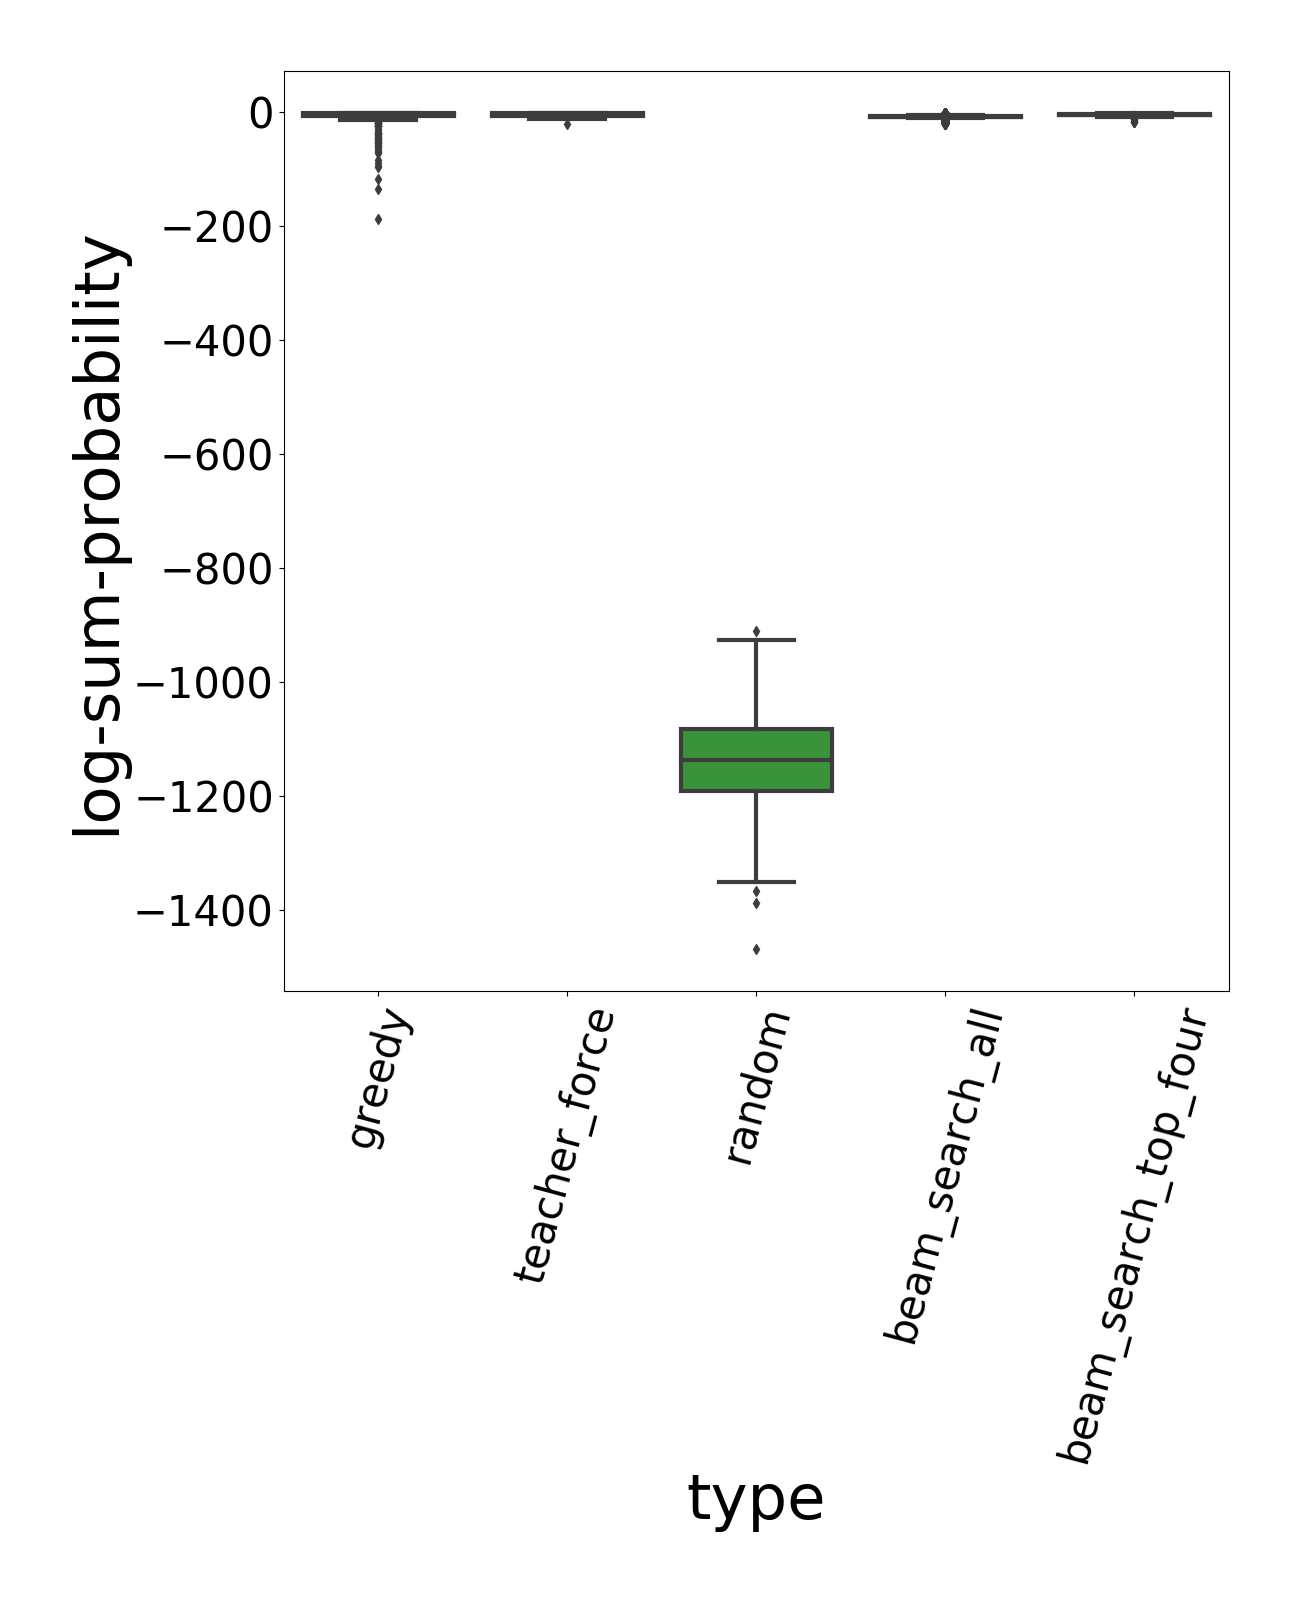
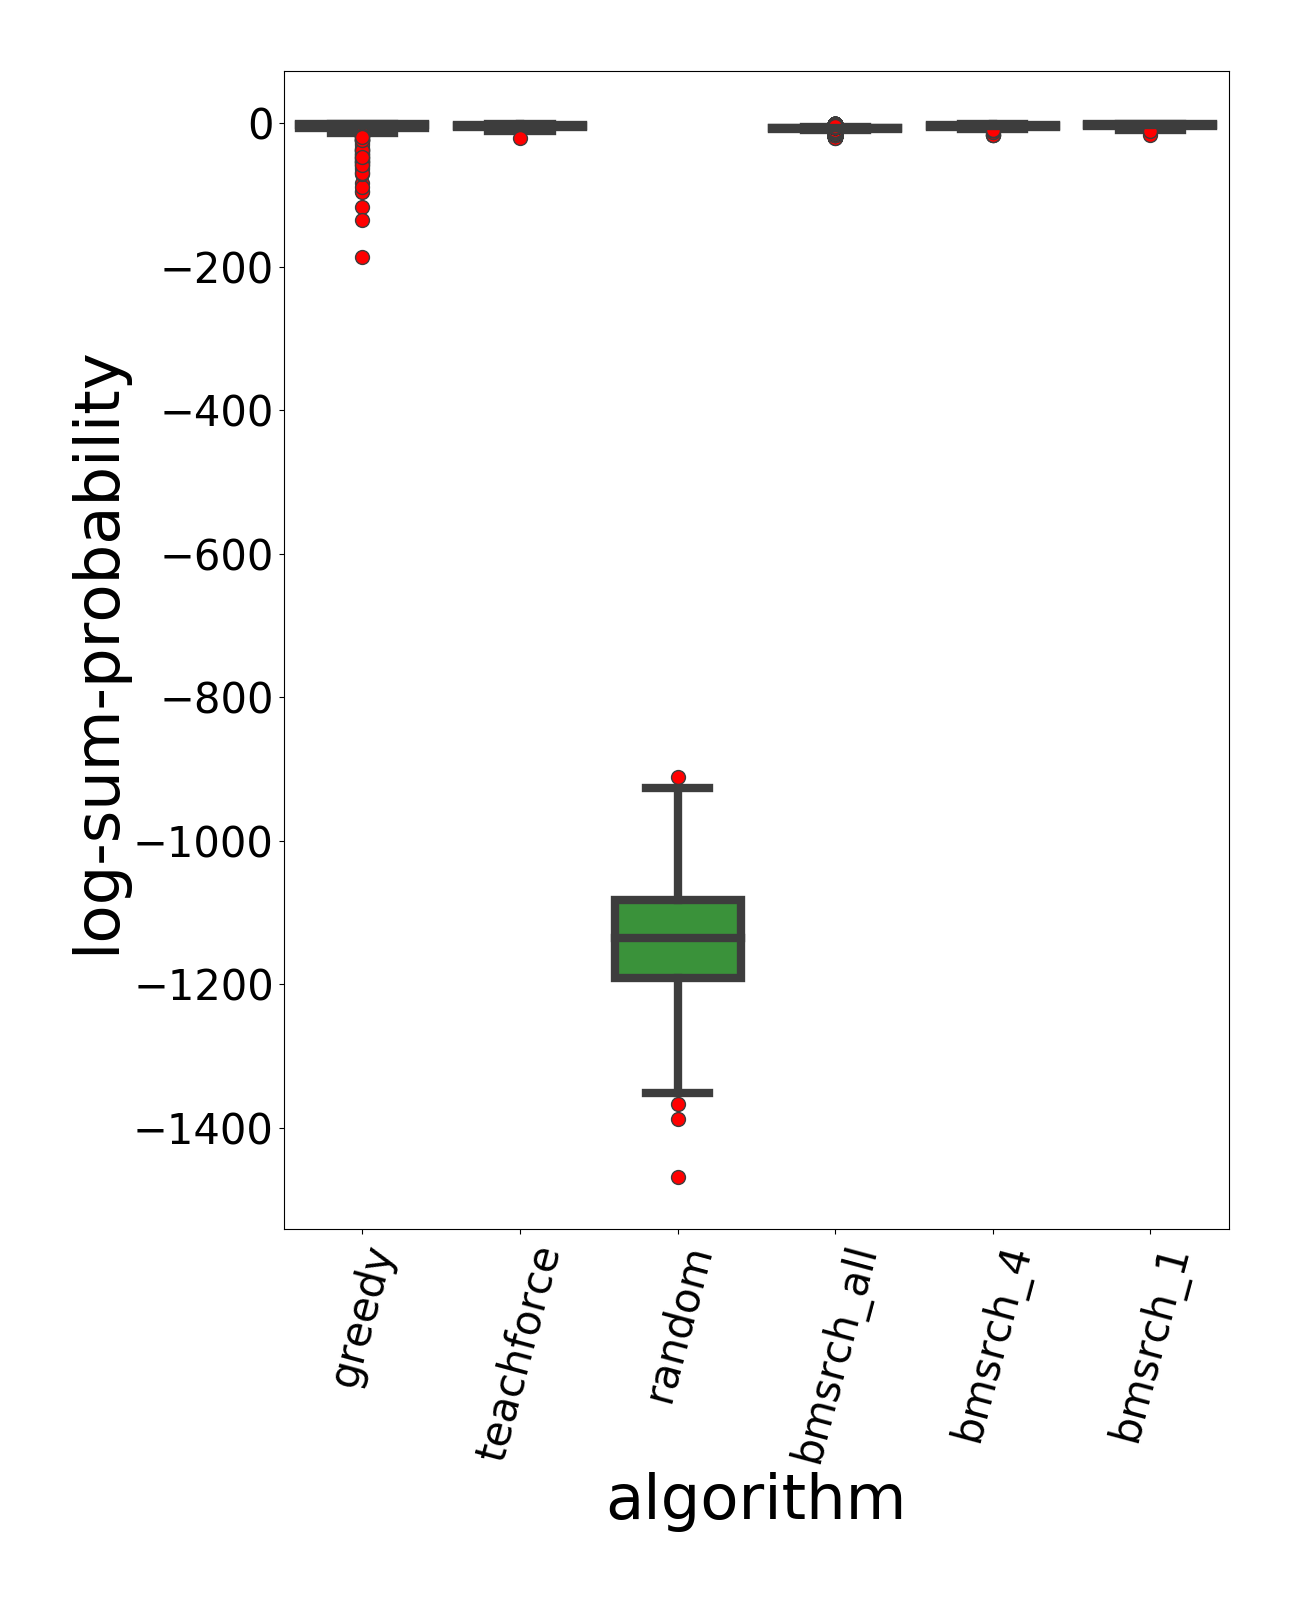
Fix box plot formatting
Thicker lines, more visible outliers, shorter label names

diff --git a/src/app/helper_scripts/15_plot_aggregate_probabilities_for_many_gaps.py b/src/app/helper_scripts/15_plot_aggregate_probabilities_for_many_gaps.py
@@ -16,7 +16,7 @@ from preprocess.KmerLabelEncoder import KmerLabelEncoder
 
 primary_text_font_size=45
 secondary_text_font_size=30
-linewidth=3
+linewidth=6
 rotation=75
 
 def save_plot(data, path):
@@ -31,7 +31,13 @@ def save_plot(data, path):
 
     plt.figure(figsize=figure_dimensions)
 
-    ax = sns.boxplot(data=data, x="type", y="log-sum-probability", linewidth=linewidth)
+    flierprops = {
+        'markersize': 10,
+        'markerfacecolor': 'red',
+        'marker': 'o'
+    }
+
+    ax = sns.boxplot(data=data, x="algorithm", y="log-sum-probability", linewidth=linewidth, flierprops=flierprops)
     ax.set_xticklabels(ax.get_xticklabels(), rotation=rotation)
     plt.tight_layout()
     fig = plt.savefig(path)
@@ -61,153 +67,161 @@ def aggregate_probability(probability):
 
 def main():
     terminal_char = dir_utils.get_terminal_directory_character()
-    fixed=False
-    gap_type = "fixed" if fixed else "unfixed"
+    gap_types = ["fixed", "unfixed"]
 
-    root = '/projects/btl/scratch/echen/April_2_Results_Backup/scratch/' + gap_type + terminal_char
-    output_folder = "/home/echen/Desktop/Projects/Sealer_NN/src/app/new_rnn/out/aggregate" + terminal_char + "gap_prediction_probability_aggregate" + terminal_char + gap_type + terminal_char
-    dir_utils.mkdir(output_folder)
+    for gap_type in gap_types:
+        root = '/projects/btl/scratch/echen/April_2_Results_Backup/scratch/' + gap_type + terminal_char
+        output_folder = "/home/echen/Desktop/Projects/Sealer_NN/src/app/new_rnn/out/aggregate" + terminal_char + "gap_prediction_probability_aggregate" + terminal_char + gap_type + terminal_char
+        dir_utils.mkdir(output_folder)
 
-    gap_ids = os.listdir(root)
-    num_replicates = 1
+        gap_ids = os.listdir(root)
+        num_replicates = 1
 
-    ids = set()
-    for gap_id in gap_ids:
-        ids.add(gap_id)
+        ids = set()
+        for gap_id in gap_ids:
+            ids.add(gap_id)
 
-    greedy_predicted = "greedy_predicted_probabilities.npy"
-    teacher_forcing_predicted = "predicted_probabilities.npy"
-    random_predicted = "random_predicted_probabilities.npy"
-    beam_search_probability = "beam_search_predicted_probabilities.npy"
+        greedy_predicted = "greedy_predicted_probabilities.npy"
+        teacher_forcing_predicted = "predicted_probabilities.npy"
+        random_predicted = "random_predicted_probabilities.npy"
+        beam_search_probability = "beam_search_predicted_probabilities.npy"
 
-    headers = np.array(["", "type", "log-sum-probability"])
-    numeric_headers = headers[2:]
-    data_list = [headers]
+        headers = np.array(["", "algorithm", "log-sum-probability"])
+        numeric_headers = headers[2:]
+        data_list = [headers]
 
-    lf = "left_flank"
-    rf = "right_flank"
-    f = "forward"
-    rc = "reverse_complement"
+        lf = "left_flank"
+        rf = "right_flank"
+        f = "forward"
+        rc = "reverse_complement"
 
-    flanks = [lf, rf]
-    strands = [f, rc]
+        flanks = [lf, rf]
+        strands = [f, rc]
 
-    row_id = 0
-    min_seed_length=52
-    for gap_id in ids:
-        gap_folder = root + gap_id + terminal_char
-        for i in range(num_replicates):
-            model_folder = gap_id + "_R_" + str(i)
-            parent_folder_path = gap_folder + model_folder + terminal_char
-            files = os.listdir(parent_folder_path)
-            if len(files) == 1:
-                continue
+        row_id = 0
+        min_seed_length=52
+        for gap_id in ids:
+            gap_folder = root + gap_id + terminal_char
+            for i in range(num_replicates):
+                model_folder = gap_id + "_R_" + str(i)
+                parent_folder_path = gap_folder + model_folder + terminal_char
+                files = os.listdir(parent_folder_path)
+                if len(files) == 1:
+                    continue
 
-            flank_prediction_folder = parent_folder_path + "regenerate_seq" + terminal_char
+                flank_prediction_folder = parent_folder_path + "regenerate_seq" + terminal_char
 
-            for flank in flanks:
-                for strand in strands:
-                    probability_folder = flank_prediction_folder + flank + terminal_char + strand + terminal_char
-                    greedy_probabilities = np.max(np.load(probability_folder + greedy_predicted), axis=1)
+                for flank in flanks:
+                    for strand in strands:
+                        probability_folder = flank_prediction_folder + flank + terminal_char + strand + terminal_char
+                        greedy_probabilities = np.max(np.load(probability_folder + greedy_predicted), axis=1)
 
-                    teacher_force_txt = probability_folder + "align.txt"
-                    actual_encoded_sequence = read_and_encode_actual_sequence(teacher_force_txt, min_seed_length, 2)
-                    teacher_forcing_probabilities_all = np.load(probability_folder + teacher_forcing_predicted)
-                    teacher_forcing_probabilities = dereference_indices(teacher_forcing_probabilities_all,
-                                                                        actual_encoded_sequence)
+                        teacher_force_txt = probability_folder + "align.txt"
+                        actual_encoded_sequence = read_and_encode_actual_sequence(teacher_force_txt, min_seed_length, 2)
+                        teacher_forcing_probabilities_all = np.load(probability_folder + teacher_forcing_predicted)
+                        teacher_forcing_probabilities = dereference_indices(teacher_forcing_probabilities_all,
+                                                                            actual_encoded_sequence)
 
-                    random_probabilities = np.load(probability_folder + random_predicted)
+                        random_probabilities = np.load(probability_folder + random_predicted)
+
+                        aggregate_greedy = aggregate_probability(greedy_probabilities)
+                        aggregate_teacher_force = aggregate_probability(teacher_forcing_probabilities)
+                        aggregate_random = aggregate_probability(random_probabilities)
+
+                        data_list.append([row_id, "greedy", aggregate_greedy])
+                        row_id += 1
+                        data_list.append([row_id, "teachforce", aggregate_teacher_force])
+                        row_id += 1
+                        data_list.append([row_id, "random", aggregate_random])
+                        row_id += 1
+
+                beam_search_flank_prediction_folder = parent_folder_path + "beam_search" + terminal_char + "regenerate_seq" + terminal_char
+                for flank in flanks:
+                    for strand in strands:
+                        probability_folder = beam_search_flank_prediction_folder + flank + terminal_char + strand + terminal_char
+                        lg_sum_probabilities = np.load(probability_folder + beam_search_probability)
+                        sorted_sum = np.sort(lg_sum_probabilities)[::-1]
+                        top_four = sorted_sum[0:4]
+                        top_one = sorted_sum[0]
+
+                        for sum in sorted_sum:
+                            data_list.append([row_id, "bmsrch_all", sum])
+                            row_id += 1
+
+                        for sum in top_four:
+                            data_list.append([row_id, "bmsrch_4", sum])
+                            row_id += 1
+
+                        data_list.append([row_id, "bmsrch_1", top_one])
+                        row_id += 1
+
+        data = np.array(data_list)
+        df = pd.DataFrame(data=data[1:, 1:], index=data[1:,0], columns=data[0, 1:])
+
+        df[numeric_headers] = df[numeric_headers].apply(pd.to_numeric)
+        path = output_folder + "flanks_aggregate_probability.png"
+        save_plot(df, path)
+
+
+        df_drilldown = df.loc[df['algorithm'] != "random"]
+        path = output_folder + "flanks_aggregate_probability_drilldown.png"
+        save_plot(df_drilldown, path)
+
+        ####################################################################################################################
+        ####GAPS######
+        ####################################################################################################################
+
+        headers = np.array(["", "algorithm", "log-sum-probability"])
+        numeric_headers = headers[2:]
+        data_list = [headers]
+        predictions = ["forward", "reverse_complement"] #forward = left, rc = right
+
+        row_id = 0
+        for gap_id in ids:
+            gap_folder = root + gap_id + terminal_char
+            for i in range(num_replicates):
+                model_folder = gap_id + "_R_" + str(i)
+                parent_folder_path = gap_folder + model_folder + terminal_char
+                files = os.listdir(parent_folder_path)
+                if len(files) == 1:
+                    continue
+
+                gap_prediction_folder = parent_folder_path + "predict_gap" + terminal_char
+
+                for prediction in predictions:
+                    probability_folder = gap_prediction_folder + prediction + terminal_char
+                    greedy_probabilities = np.max(np.load(probability_folder + "predicted_probabilities.npy"), axis=1)
 
                     aggregate_greedy = aggregate_probability(greedy_probabilities)
-                    aggregate_teacher_force = aggregate_probability(teacher_forcing_probabilities)
-                    aggregate_random = aggregate_probability(random_probabilities)
 
                     data_list.append([row_id, "greedy", aggregate_greedy])
                     row_id += 1
-                    data_list.append([row_id, "teacher_force", aggregate_teacher_force])
-                    row_id += 1
-                    data_list.append([row_id, "random", aggregate_random])
-                    row_id += 1
 
-            beam_search_flank_prediction_folder = parent_folder_path + "beam_search" + terminal_char + "regenerate_seq" + terminal_char
-            for flank in flanks:
-                for strand in strands:
-                    probability_folder = beam_search_flank_prediction_folder + flank + terminal_char + strand + terminal_char
+                beam_search_flank_prediction_folder = parent_folder_path + "beam_search" + terminal_char + "predict_gap" + terminal_char
+                for prediction in predictions:
+                    probability_folder = beam_search_flank_prediction_folder + prediction + terminal_char
                     lg_sum_probabilities = np.load(probability_folder + beam_search_probability)
                     sorted_sum = np.sort(lg_sum_probabilities)[::-1]
                     top_four = sorted_sum[0:4]
+                    top_one = sorted_sum[0]
 
                     for sum in sorted_sum:
-                        data_list.append([row_id, "beam_search_all", sum])
+                        data_list.append([row_id, "bmsrch_all", sum])
                         row_id += 1
 
                     for sum in top_four:
-                        data_list.append([row_id, "beam_search_top_four", sum])
+                        data_list.append([row_id, "bmsrch_4", sum])
                         row_id += 1
 
-    data = np.array(data_list)
-    df = pd.DataFrame(data=data[1:, 1:], index=data[1:,0], columns=data[0, 1:])
-
-    df[numeric_headers] = df[numeric_headers].apply(pd.to_numeric)
-    path = output_folder + "flanks_aggregate_probability.png"
-    save_plot(df, path)
-
-
-    df_drilldown = df.loc[df['type'] != "random"]
-    path = output_folder + "flanks_aggregate_probability_drilldown.png"
-    save_plot(df_drilldown, path)
-
-    ####################################################################################################################
-    ####GAPS######
-    ####################################################################################################################
-
-    headers = np.array(["", "type", "log-sum-probability"])
-    numeric_headers = headers[2:]
-    data_list = [headers]
-    predictions = ["forward", "reverse_complement"] #forward = left, rc = right
-
-    row_id = 0
-    for gap_id in ids:
-        gap_folder = root + gap_id + terminal_char
-        for i in range(num_replicates):
-            model_folder = gap_id + "_R_" + str(i)
-            parent_folder_path = gap_folder + model_folder + terminal_char
-            files = os.listdir(parent_folder_path)
-            if len(files) == 1:
-                continue
-
-            gap_prediction_folder = parent_folder_path + "predict_gap" + terminal_char
-
-            for prediction in predictions:
-                probability_folder = gap_prediction_folder + prediction + terminal_char
-                greedy_probabilities = np.max(np.load(probability_folder + "predicted_probabilities.npy"), axis=1)
-
-                aggregate_greedy = aggregate_probability(greedy_probabilities)
-
-                data_list.append([row_id, "greedy", aggregate_greedy])
-                row_id += 1
-
-            beam_search_flank_prediction_folder = parent_folder_path + "beam_search" + terminal_char + "predict_gap" + terminal_char
-            for prediction in predictions:
-                probability_folder = beam_search_flank_prediction_folder + prediction + terminal_char
-                lg_sum_probabilities = np.load(probability_folder + beam_search_probability)
-                sorted_sum = np.sort(lg_sum_probabilities)[::-1]
-                top_four = sorted_sum[0:4]
-
-                for sum in sorted_sum:
-                    data_list.append([row_id, "beam_search_all", sum])
+                    data_list.append([row_id, "bmsrch_1", top_one])
                     row_id += 1
 
-                for sum in top_four:
-                    data_list.append([row_id, "beam_search_top_four", sum])
-                    row_id += 1
+        data = np.array(data_list)
+        df = pd.DataFrame(data=data[1:, 1:], index=data[1:,0], columns=data[0, 1:])
 
-    data = np.array(data_list)
-    df = pd.DataFrame(data=data[1:, 1:], index=data[1:,0], columns=data[0, 1:])
-
-    df[numeric_headers] = df[numeric_headers].apply(pd.to_numeric)
-    path = output_folder + "gaps_aggregate_probability.png"
-    save_plot(df, path)
+        df[numeric_headers] = df[numeric_headers].apply(pd.to_numeric)
+        path = output_folder + "gaps_aggregate_probability.png"
+        save_plot(df, path)
 
 if __name__ == "__main__":
     main()

diff --git a/src/app/helper_scripts/11_plot_aggregate_probabilities.py b/src/app/helper_scripts/11_plot_aggregate_probabilities.py
@@ -5,7 +5,7 @@ if os.name == 'nt':
     sys.path.append('E:\\Users\\Documents\\School Year 18-19\\Term 1\\CPSC 449\\Sealer_NN\\src\\')
 else:
     sys.path.append('/home/echen/Desktop/Projects/Sealer_NN/src/')
-90
+
 import matplotlib.pyplot as plt
 import numpy as np
 import pandas as pd
@@ -16,7 +16,7 @@ from preprocess.KmerLabelEncoder import KmerLabelEncoder
 
 primary_text_font_size=45
 secondary_text_font_size=30
-linewidth=3
+linewidth=6
 rotation=75
 
 def save_plot(data, path):
@@ -31,7 +31,13 @@ def save_plot(data, path):
 
     plt.figure(figsize=figure_dimensions)
 
-    ax = sns.boxplot(data=data, x="type", y="log-sum-probability", linewidth=linewidth)
+    flierprops = {
+        'markersize': 10,
+        'markerfacecolor': 'red',
+        'marker': 'o'
+    }
+
+    ax = sns.boxplot(data=data, x="algorithm", y="log-sum-probability", linewidth=linewidth, flierprops=flierprops)
     ax.set_xticklabels(ax.get_xticklabels(), rotation=rotation)
     plt.tight_layout()
     fig = plt.savefig(path)
@@ -91,7 +97,7 @@ def main():
     random_predicted = "random_predicted_probabilities.npy"
     beam_search_probability = "beam_search_predicted_probabilities.npy"
 
-    headers = np.array(["", "type", "log-sum-probability"])
+    headers = np.array(["", "algorithm", "log-sum-probability"])
     numeric_headers = headers[2:]
     data_list = [headers]
 
@@ -135,7 +141,7 @@ def main():
 
                             data_list.append([row_id, "greedy", aggregate_greedy])
                             row_id += 1
-                            data_list.append([row_id, "teacher_force", aggregate_teacher_force])
+                            data_list.append([row_id, "teachforce", aggregate_teacher_force])
                             row_id += 1
                             data_list.append([row_id, "random", aggregate_random])
                             row_id += 1
@@ -147,14 +153,18 @@ def main():
                             lg_sum_probabilities = np.load(probability_folder + beam_search_probability)
                             sorted_sum = np.sort(lg_sum_probabilities)[::-1]
                             top_four = sorted_sum[0:4]
+                            top_one = sorted_sum[0]
 
                             for sum in sorted_sum:
-                                data_list.append([row_id, "beam_search_all", sum])
+                                data_list.append([row_id, "bmsrch_all", sum])
                                 row_id += 1
 
                             for sum in top_four:
-                                data_list.append([row_id, "beam_search_top_four", sum])
+                                data_list.append([row_id, "bmsrch_4", sum])
                                 row_id += 1
+
+                            data_list.append([row_id, "bmsrch_1", top_one])
+                            row_id += 1
 
     data = np.array(data_list)
     df = pd.DataFrame(data=data[1:, 1:], index=data[1:,0], columns=data[0, 1:])
@@ -164,7 +174,7 @@ def main():
     save_plot(df, path)
 
 
-    df_drilldown = df.loc[df['type'] != "random"]
+    df_drilldown = df.loc[df['algorithm'] != "random"]
     path = output_folder + "aggregate_probability_drilldown.png"
     save_plot(df_drilldown, path)
 
